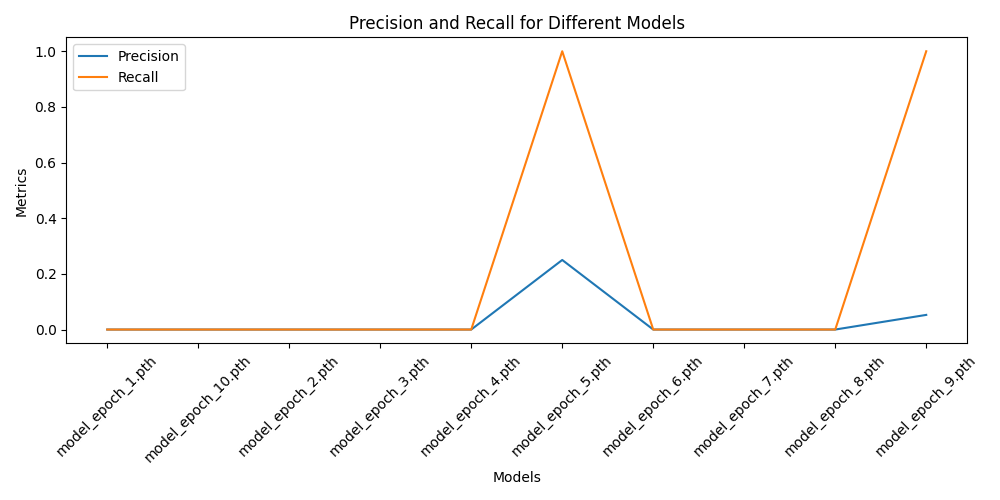
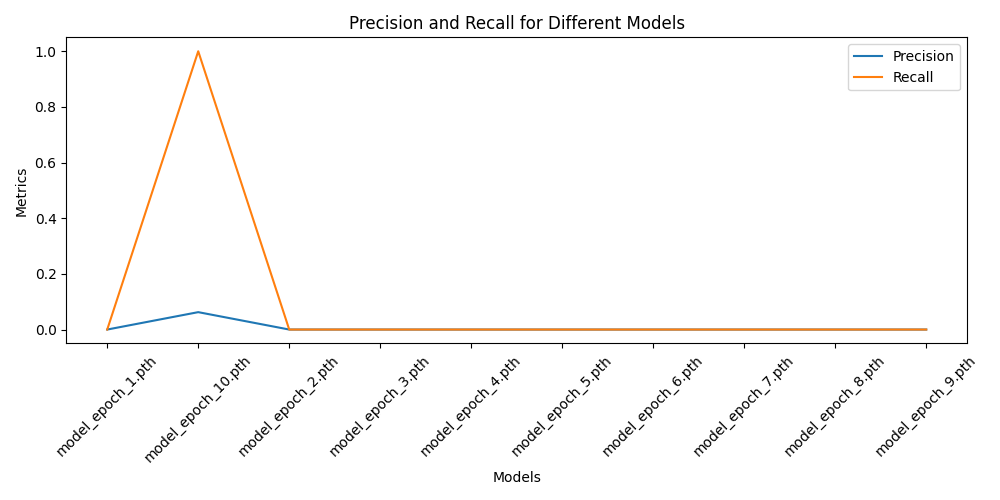
test2

diff --git a/test2.py b/test2.py
@@ -9,11 +9,11 @@ import matplotlib.pyplot as plt
 model_folder = "."
 model_files = [f for f in os.listdir(model_folder) if f.endswith('.pth')]
 
-test_image_path = "test.jpg"
+test_image_path = "test22.jpg"
 device = torch.device('cuda') if torch.cuda.is_available() else torch.device('cpu')
 
 # Ground truth box для розрахунку IoU
-ground_truth_box = [634.493408203125, 212.12039184570312, 640.0, 331.7173767089844]
+ground_truth_box = [635.0601196289062,188.33197021484375,640.0,290.3623352050781]
 ground_truth_label = 1
 
 # Загрузка тестового изображения
@@ -97,12 +97,31 @@ plt.savefig("metrics_graph.png")
 plt.show()
 
 # Візуалізація рамок
-image_draw = Image.open(test_image_path).convert("RGB")
-draw = ImageDraw.Draw(image_draw)
+image_path = "test22.jpg"
+image = Image.open(image_path)
 
-for pred in model_predictions:
-    box = pred['box']
-    draw.rectangle(box, outline="red", width=3)
-    draw.text((box[0], box[1]), f"{pred['label']} {pred['score']:.2f}", fill="red")
+# Відкрити зображення у вікні для перегляду
+image.show()
 
-image_draw.save("predicted_image.jpg")
+# Координати ground_truth_box потрібно ввести вручну
+# Наприклад: [xmin, ymin, xmax, ymax]
+# Перевіряємо координати
+ground_truth_box = [630, 180, 639, 250]
+
+# Розмір зображення
+print(f"Image size: {image.size}")  # Додатковий контроль
+
+# Візуалізувати рамку
+draw = ImageDraw.Draw(image)
+
+# Малюємо рамку (Outline Red)
+if ground_truth_box[2] > ground_truth_box[0] and ground_truth_box[3] > ground_truth_box[1]:
+    draw.rectangle(ground_truth_box, outline="red", width=3)
+    print(f"Ground truth box: {ground_truth_box}")
+    print(f"Image size: {image.size}")
+
+else:
+    print("Invalid ground_truth_box coordinates.")
+
+# Зберігаємо зображення
+image.save("predicted_image.jpg")

diff --git a/groundimg.py b/groundimg.py
@@ -1,0 +1,17 @@
+from PIL import Image
+
+# Відкрити зображення
+image_path = "test22.jpg"
+image = Image.open(image_path)
+image.show()
+
+# Вивести розмір зображення
+print(f"Image size: {image.size} (width, height)")
+
+# Інструкція:
+# Відкривши зображення, використовуйте редактор для перегляду
+# позицій потрібних пікселів. Наприклад:
+xmin, ymin = 635, 188  # Верхній лівий кут
+xmax, ymax = 640, 290  # Нижній правий кут
+ground_truth_box = [xmin, ymin, xmax, ymax]
+print(f"Ground Truth Box: {ground_truth_box}")
